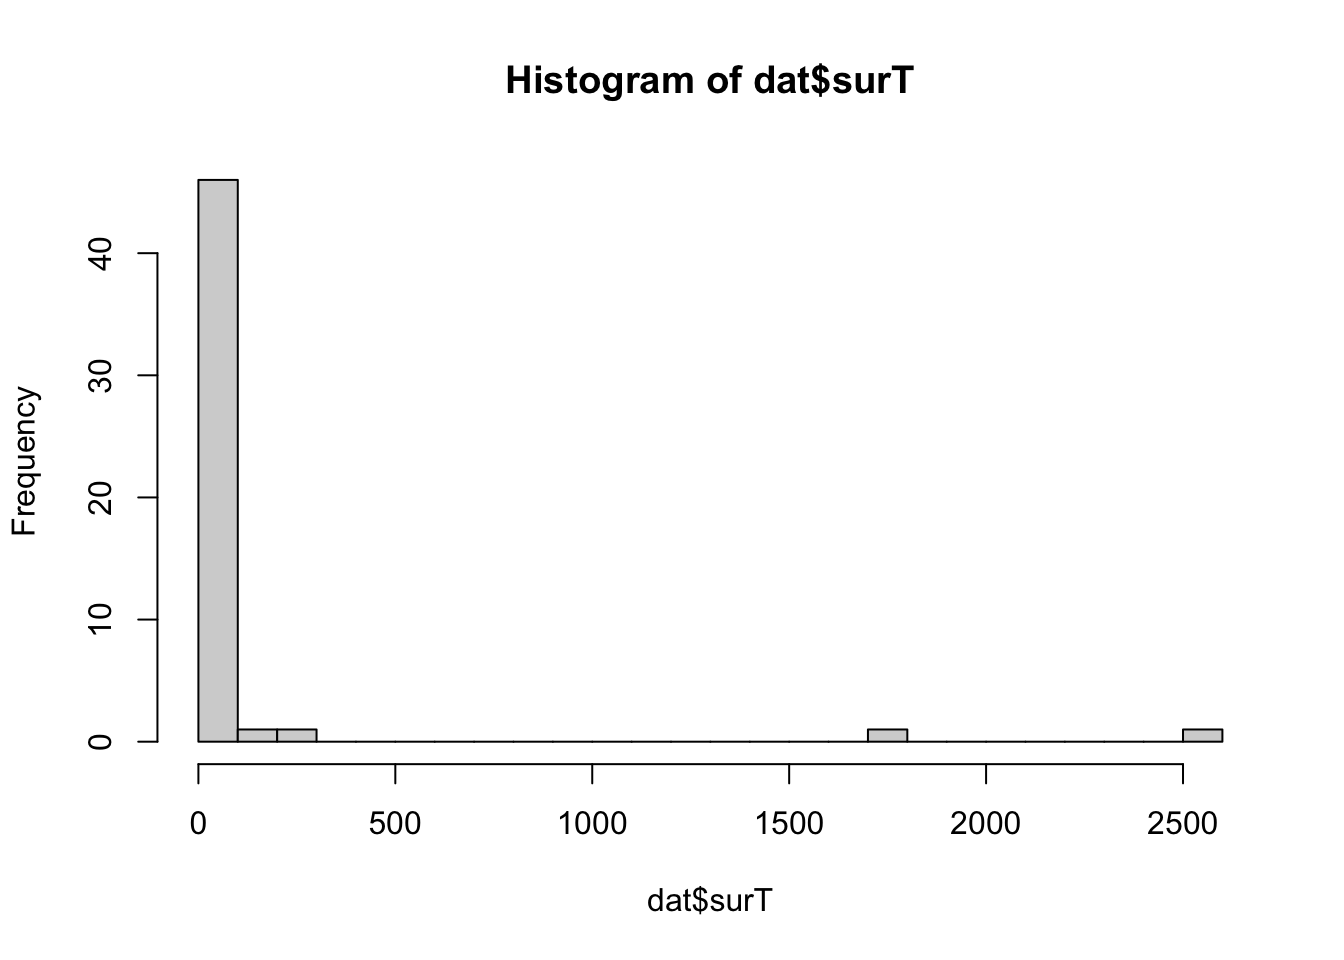
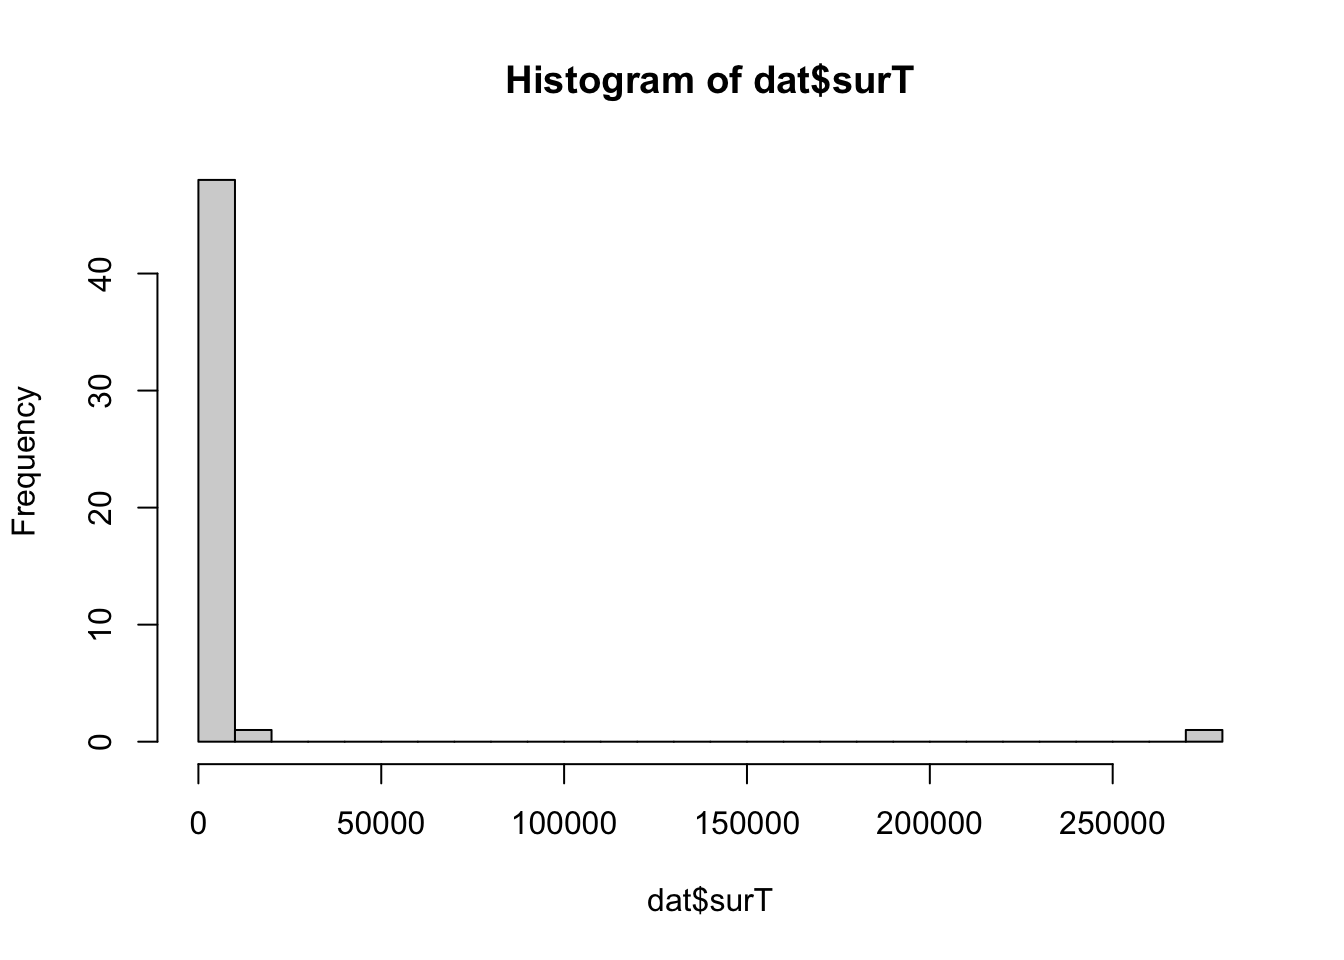
Build site.

diff --git a/docs/sim_survival.html b/docs/sim_survival.html
@@ -384,7 +384,7 @@ div.tocify {
 <div class="tab-content">
 <div id="summary" class="tab-pane fade in active">
 <p>
-<strong>Last updated:</strong> 2023-02-05
+<strong>Last updated:</strong> 2023-02-06
 </p>
 <p>
 <strong>Checks:</strong> <span class="glyphicon glyphicon-ok text-success" aria-hidden="true"></span> 7 <span class="glyphicon glyphicon-exclamation-sign text-danger" aria-hidden="true"></span> 0
@@ -475,16 +475,16 @@ This reproducible <a href="http://rmarkdown.rstudio.com">R Markdown</a> analysis
 <div class="panel panel-default">
 <div class="panel-heading">
 <p class="panel-title">
-<a data-toggle="collapse" data-parent="#workflowr-checks" href="#strongRepositoryversionstrongahrefhttpsgithubcomyunqiyang0215survivalsusietreeb93082627be2d80584f96c733f5ea9e512f4e91atargetblankb930826a"> <span class="glyphicon glyphicon-ok text-success" aria-hidden="true"></span> <strong>Repository version:</strong> <a href="https://github.com/yunqiyang0215/survival-susie/tree/b93082627be2d80584f96c733f5ea9e512f4e91a" target="_blank">b930826</a> </a>
+<a data-toggle="collapse" data-parent="#workflowr-checks" href="#strongRepositoryversionstrongahrefhttpsgithubcomyunqiyang0215survivalsusietreebf1a95e5d7c96e29cd6e5d7994bd73822a540ac1targetblankbf1a95ea"> <span class="glyphicon glyphicon-ok text-success" aria-hidden="true"></span> <strong>Repository version:</strong> <a href="https://github.com/yunqiyang0215/survival-susie/tree/bf1a95e5d7c96e29cd6e5d7994bd73822a540ac1" target="_blank">bf1a95e</a> </a>
 </p>
 </div>
[2 lines of base64/hex data omitted]
 <div class="panel-body">
 <p>
 Great! You are using Git for version control. Tracking code development and connecting the code version to the results is critical for reproducibility.
 </p>
 <p>
-The results in this page were generated with repository version <a href="https://github.com/yunqiyang0215/survival-susie/tree/b93082627be2d80584f96c733f5ea9e512f4e91a" target="_blank">b930826</a>. See the <em>Past versions</em> tab to see a history of the changes made to the R Markdown and HTML files.
+The results in this page were generated with repository version <a href="https://github.com/yunqiyang0215/survival-susie/tree/bf1a95e5d7c96e29cd6e5d7994bd73822a540ac1" target="_blank">bf1a95e</a>. See the <em>Past versions</em> tab to see a history of the changes made to the R Markdown and HTML files.
 </p>
 <p>
 Note that you need to be careful to ensure that all relevant files for the analysis have been committed to Git prior to generating the results (you can use <code>wflow_publish</code> or <code>wflow_git_commit</code>). workflowr only checks the R Markdown file, but you know if there are other scripts or data files that it depends on. Below is the status of the Git repository when the results were generated:
@@ -496,9 +496,9 @@ Ignored files:
     Ignored:    .Rproj.user/
     Ignored:    analysis/.RData
     Ignored:    analysis/.Rhistory
-    Ignored:    analysis/figure/
 
 Untracked files:
+    Untracked:  analysis/ser_survival.Rmd
     Untracked:  data/sim1.rds
 
 </code></pre>
@@ -543,6 +543,40 @@ Message
 Rmd
 </td>
 <td>
+<a href="https://github.com/yunqiyang0215/survival-susie/blob/bf1a95e5d7c96e29cd6e5d7994bd73822a540ac1/analysis/sim_survival.Rmd" target="_blank">bf1a95e</a>
+</td>
+<td>
+yunqiyang0215
+</td>
+<td>
+2023-02-06
+</td>
+<td>
+wflow_publish("analysis/sim_survival.Rmd")
+</td>
+</tr>
+<tr>
+<td>
+html
+</td>
+<td>
+<a href="https://rawcdn.githack.com/yunqiyang0215/survival-susie/d1c8e3780ef841cd50a2e44ecd1fd516821f9cb4/docs/sim_survival.html" target="_blank">d1c8e37</a>
+</td>
+<td>
+yunqiyang0215
+</td>
+<td>
+2023-02-05
+</td>
+<td>
+Build site.
+</td>
+</tr>
+<tr>
+<td>
+Rmd
+</td>
+<td>
 <a href="https://github.com/yunqiyang0215/survival-susie/blob/b93082627be2d80584f96c733f5ea9e512f4e91a/analysis/sim_survival.Rmd" target="_blank">b930826</a>
 </td>
 <td>
@@ -565,6 +599,26 @@ wflow_publish("analysis/sim_survival.Rmd")
 <div id="description" class="section level2">
 <h2>Description:</h2>
 <p>Simulate time-to-event data based on exponential model. And fit proportional hazard model to data.</p>
+<p>The exponential regression (AFT: accelerated failure time):</p>
+<p>It assumes survival time <span class="math inline">\(T\)</span> follows exponential distribution. Under this assumption, the hazard is constant over time. <span class="math display">\[
+\begin{split}
+T&amp;\sim \exp(\mu)\\
+f(t)&amp;=\frac{1}{\mu}\exp\{-t/\mu\}\\
+\lambda(t)&amp;=1/\mu
+\end{split}
+\]</span></p>
+<p>Remember in exponential distribution, <span class="math inline">\(E(T)=\mu\)</span>. So we model the <span class="math inline">\(\log\mu\)</span> part by linear combinations of variables. The error follows the following extreme value distribution: <span class="math display">\[
+\begin{split}
+\epsilon &amp;=\log T - \log \mu\\
+f(\epsilon)&amp;=\exp\{\epsilon-\exp\{\epsilon\}\}
+\end{split}
+\]</span> <span class="math display">\[
+\begin{split}
+\log(T_i) &amp;= \log(E(T_i)) + \epsilon_i\\
+&amp;=\beta_0 + X_i^T\beta+\epsilon_i
+\end{split}
+\]</span></p>
+<p>Here I simulate 6 variables, with following block covariance structure. The beta effects are like this: b = c(3, 0, 2, 0, 5, 0)</p>
 <pre class="r"><code>library(mvtnorm)
 library(EnvStats)</code></pre>
 <pre><code>
@@ -621,15 +675,15 @@ print(cov)</code></pre>
 [5,] 0.00 0.00  0.0  0.0  1.0  0.5
 [6,] 0.00 0.00  0.0  0.0  0.5  1.0</code></pre>
 <pre class="r"><code>X &lt;- sim_X(n, cov)
-dat &lt;- sim_dat(b = c(0.5, 3, 0, 2, 0, 2, 0), X)
+dat &lt;- sim_dat(b = c(0.5, 3, 0, 2, 0, 5, 0), X)
 head(dat)</code></pre>
-<pre><code>         surT         x1         x2          x3          x4         x5
-1  0.12938514 -0.3688273 -0.2542623 -0.03397769  1.05315805  0.1059272
-2 74.28497285  0.8446532  0.8801352  0.37842066 -0.01565043  1.5611673
-3  0.12629957 -1.8825864 -2.1079356  0.98607388  0.46289456  0.2286442
-4 42.42740818  1.0117009  0.9795530  1.17174034  1.11054315 -0.4428579
-5  0.01542759  0.4443932  0.3487988 -0.79708820 -1.38515479 -0.3536863
-6  0.08744163  0.9869396  0.7802569  0.32268168  0.12524732 -1.4375459
+<pre><code>          surT         x1         x2          x3          x4         x5
+1 1.777850e-01 -0.3688273 -0.2542623 -0.03397769  1.05315805  0.1059272
+2 8.033782e+03  0.8446532  0.8801352  0.37842066 -0.01565043  1.5611673
+3 2.507833e-01 -1.8825864 -2.1079356  0.98607388  0.46289456  0.2286442
+4 1.123710e+01  1.0117009  0.9795530  1.17174034  1.11054315 -0.4428579
+5 5.339321e-03  0.4443932  0.3487988 -0.79708820 -1.38515479 -0.3536863
+6 1.171557e-03  0.9869396  0.7802569  0.32268168  0.12524732 -1.4375459
           x6
 1 -0.7072287
 2  0.7678374
@@ -640,24 +694,61 @@ head(dat)</code></pre>
 <pre class="r"><code>dat$status &lt;- rep(2, n)</code></pre>
 <pre class="r"><code>hist(dat$surT, breaks = 20)</code></pre>
 <p><img src="figure/sim_survival.Rmd/unnamed-chunk-4-1.png" width="672" style="display: block; margin: auto;" /></p>
+<p>
+<button type="button" class="btn btn-default btn-xs btn-workflowr btn-workflowr-fig" data-toggle="collapse" data-target="#fig-unnamed-chunk-4-1">
+Past versions of unnamed-chunk-4-1.png
+</button>
+</p>
+<div id="fig-unnamed-chunk-4-1" class="collapse">
+<div class="table-responsive">
+<table class="table table-condensed table-hover">
+<thead>
+<tr>
+<th>
+Version
+</th>
+<th>
+Author
+</th>
+<th>
+Date
+</th>
+</tr>
+</thead>
+<tbody>
+<tr>
+<td>
+<a href="https://github.com/yunqiyang0215/survival-susie/blob/d1c8e3780ef841cd50a2e44ecd1fd516821f9cb4/docs/figure/sim_survival.Rmd/unnamed-chunk-4-1.png" target="_blank">d1c8e37</a>
+</td>
+<td>
+yunqiyang0215
+</td>
+<td>
+2023-02-05
+</td>
+</tr>
+</tbody>
+</table>
+</div>
+</div>
 <pre class="r"><code>## Add survival object. status == 2 is death
 dat$SurvObj &lt;- with(dat, Surv(surT, status == 2))
 ## Check data
 head(dat)</code></pre>
-<pre><code>         surT         x1         x2          x3          x4         x5
-1  0.12938514 -0.3688273 -0.2542623 -0.03397769  1.05315805  0.1059272
-2 74.28497285  0.8446532  0.8801352  0.37842066 -0.01565043  1.5611673
-3  0.12629957 -1.8825864 -2.1079356  0.98607388  0.46289456  0.2286442
-4 42.42740818  1.0117009  0.9795530  1.17174034  1.11054315 -0.4428579
-5  0.01542759  0.4443932  0.3487988 -0.79708820 -1.38515479 -0.3536863
-6  0.08744163  0.9869396  0.7802569  0.32268168  0.12524732 -1.4375459
-          x6 status     SurvObj
-1 -0.7072287      2  0.12938514
-2  0.7678374      2 74.28497285
-3  0.9074854      2  0.12629957
-4 -1.9022673      2 42.42740818
-5  0.2799462      2  0.01542759
-6 -0.7572632      2  0.08744163</code></pre>
+<pre><code>          surT         x1         x2          x3          x4         x5
+1 1.777850e-01 -0.3688273 -0.2542623 -0.03397769  1.05315805  0.1059272
+2 8.033782e+03  0.8446532  0.8801352  0.37842066 -0.01565043  1.5611673
+3 2.507833e-01 -1.8825864 -2.1079356  0.98607388  0.46289456  0.2286442
+4 1.123710e+01  1.0117009  0.9795530  1.17174034  1.11054315 -0.4428579
+5 5.339321e-03  0.4443932  0.3487988 -0.79708820 -1.38515479 -0.3536863
+6 1.171557e-03  0.9869396  0.7802569  0.32268168  0.12524732 -1.4375459
+          x6 status      SurvObj
+1 -0.7072287      2 1.777850e-01
+2  0.7678374      2 8.033782e+03
+3  0.9074854      2 2.507833e-01
+4 -1.9022673      2 1.123710e+01
+5  0.2799462      2 5.339321e-03
+6 -0.7572632      2 1.171557e-03</code></pre>
 <pre class="r"><code>saveRDS(dat, &quot;./data/sim1.rds&quot;)</code></pre>
 </div>
 <div id="cox-regression-using-coxph" class="section level2">
@@ -668,35 +759,35 @@ res.cox</code></pre>
 <pre><code>Call:
 coxph(formula = SurvObj ~ x1 + x2 + x3 + x4 + x5 + x6, data = dat)
 
-       coef exp(coef) se(coef)      z        p
-x1 -3.22922   0.03959  1.03367 -3.124  0.00178
-x2  0.34129   1.40675  0.96286  0.354  0.72300
-x3 -1.92631   0.14569  0.35632 -5.406 6.44e-08
-x4 -0.39133   0.67616  0.25498 -1.535  0.12484
-x5 -2.67193   0.06912  0.45889 -5.823 5.79e-09
-x6  0.02514   1.02546  0.25402  0.099  0.92115
+        coef exp(coef)  se(coef)      z        p
+x1 -2.076160  0.125411  1.002684 -2.071   0.0384
+x2 -0.480957  0.618192  0.960812 -0.501   0.6167
+x3 -1.275563  0.279274  0.292328 -4.363 1.28e-05
+x4 -0.364413  0.694604  0.248892 -1.464   0.1432
+x5 -5.026365  0.006563  0.754415 -6.663 2.69e-11
+x6 -0.190784  0.826311  0.237344 -0.804   0.4215
 
-Likelihood ratio test=116.8  on 6 df, p=&lt; 2.2e-16
+Likelihood ratio test=138.7  on 6 df, p=&lt; 2.2e-16
 n= 50, number of events= 50 </code></pre>
 <pre class="r"><code>res.cox2 &lt;- coxph(SurvObj ~ x2, data =  dat)
 res.cox2</code></pre>
 <pre><code>Call:
 coxph(formula = SurvObj ~ x2, data = dat)
 
-      coef exp(coef) se(coef)      z        p
-x2 -0.8959    0.4082   0.1985 -4.514 6.36e-06
+      coef exp(coef) se(coef)      z       p
+x2 -0.6498    0.5221   0.2014 -3.227 0.00125
 
-Likelihood ratio test=21.14  on 1 df, p=4.265e-06
+Likelihood ratio test=11  on 1 df, p=0.00091
 n= 50, number of events= 50 </code></pre>
 <pre class="r"><code>res.cox3 &lt;- coxph(SurvObj ~ x1, data =  dat)
 res.cox3</code></pre>
 <pre><code>Call:
 coxph(formula = SurvObj ~ x1, data = dat)
 
-      coef exp(coef) se(coef)      z        p
-x1 -0.8410    0.4313   0.2049 -4.104 4.06e-05
+      coef exp(coef) se(coef)      z       p
+x1 -0.5594    0.5715   0.2018 -2.772 0.00558
 
-Likelihood ratio test=18.67  on 1 df, p=1.553e-05
+Likelihood ratio test=8.36  on 1 df, p=0.003834
 n= 50, number of events= 50 </code></pre>
 <br>
 <p>
